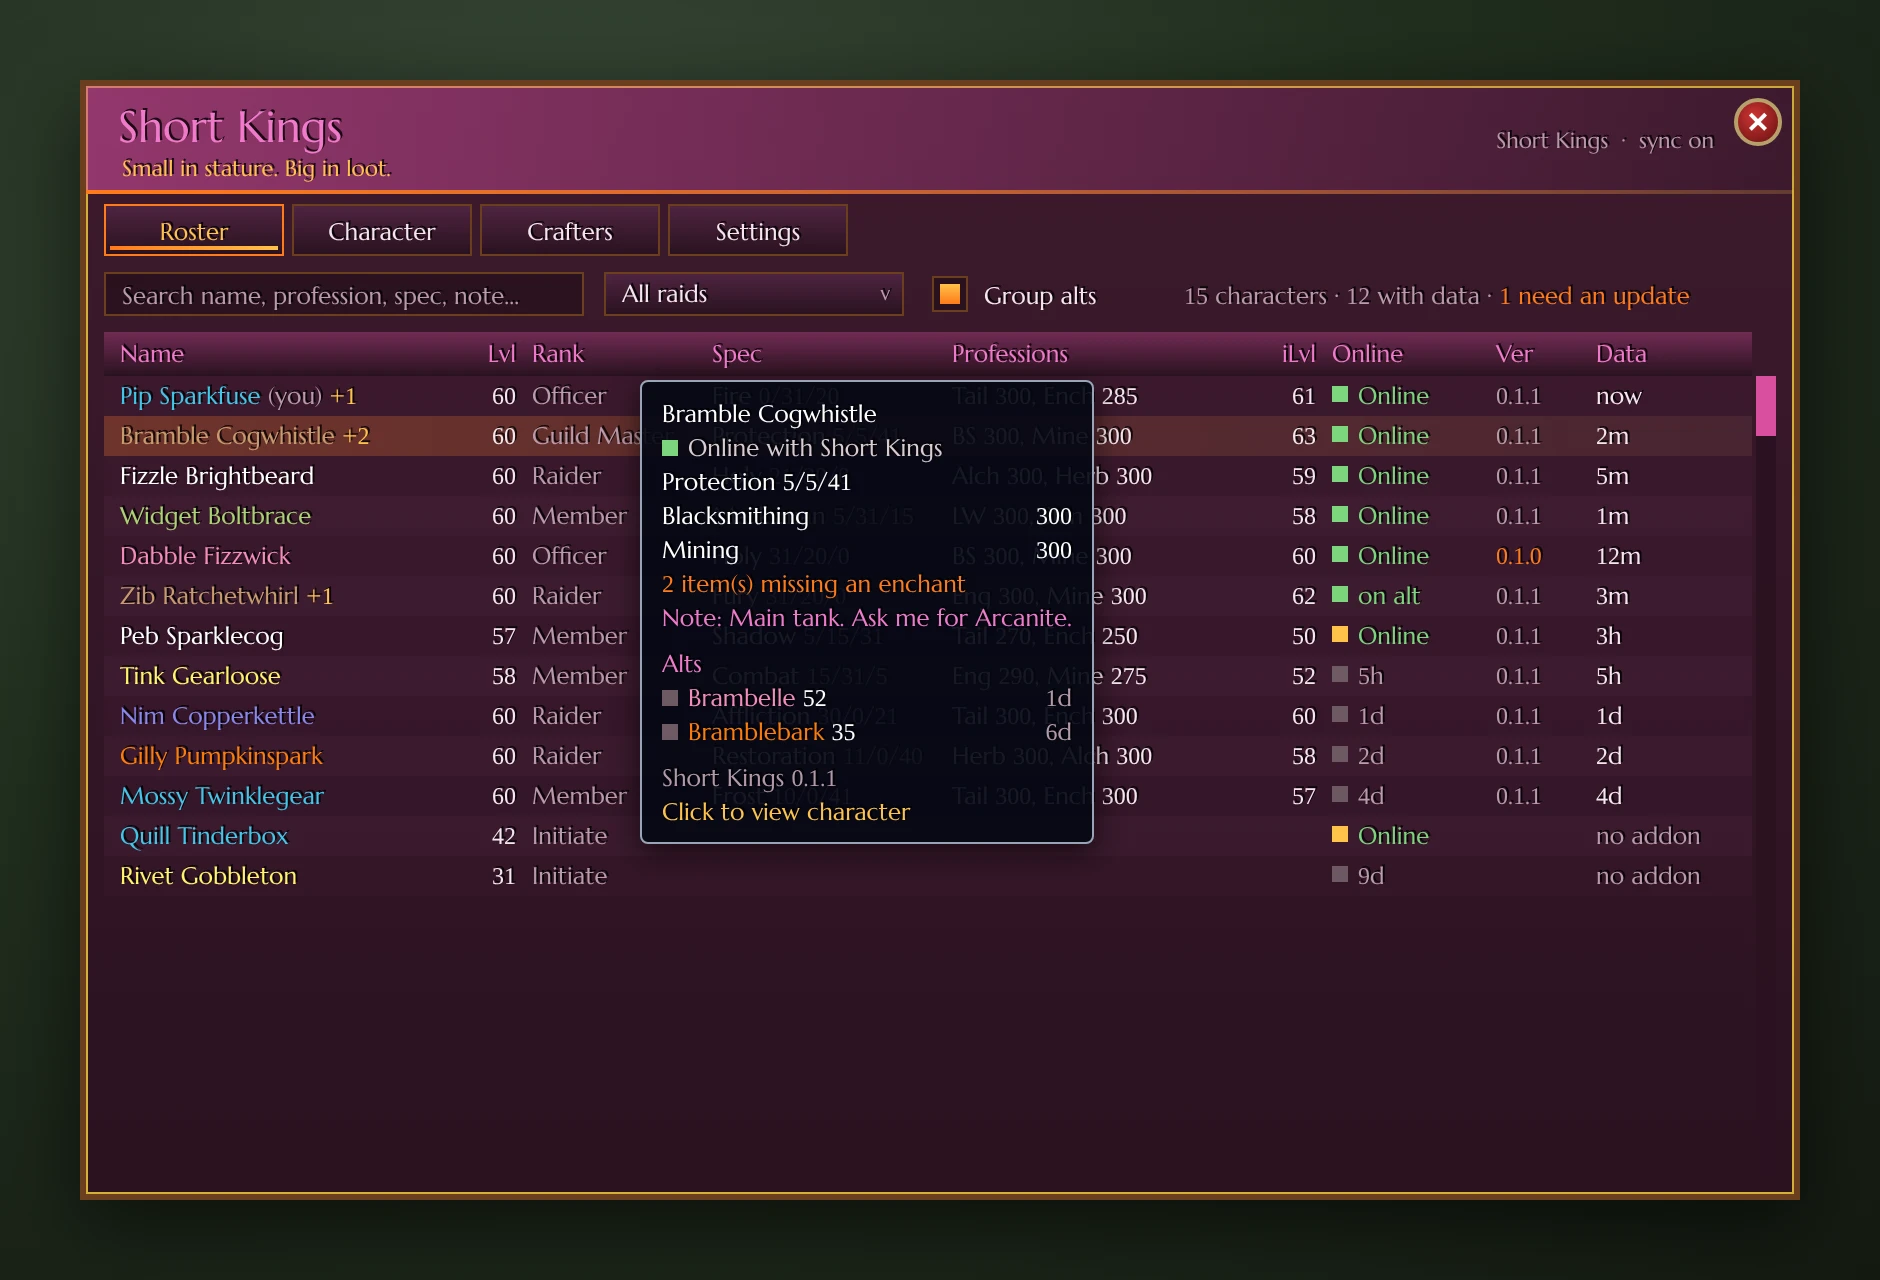
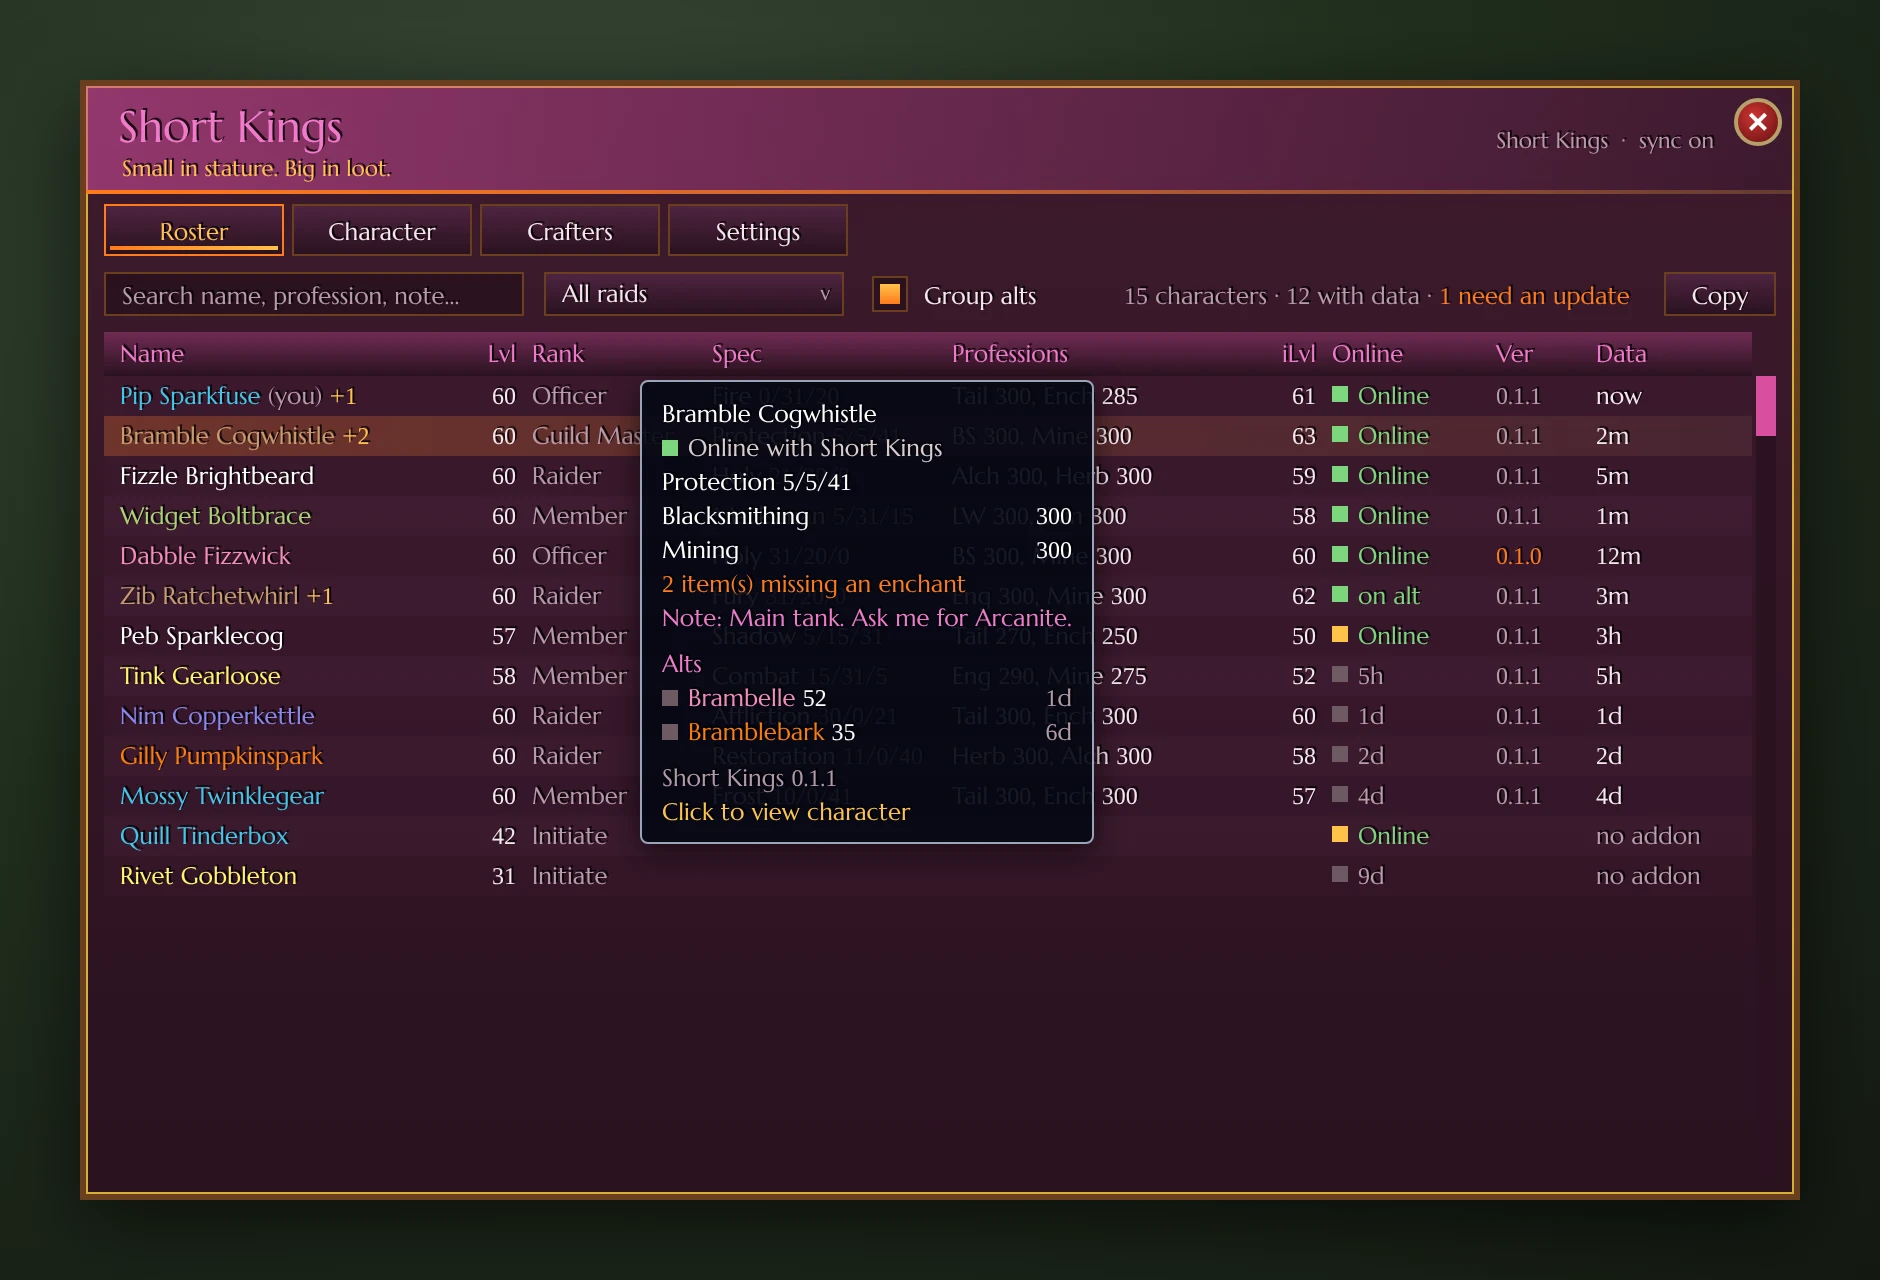
v0.2.1: Copy as text, update-available line, mockups and docs (P9, P5)
- Core/Export: plain-text roster and crafter lists (no colour codes, links
  or notes; own gear/talents omitted when not shared)
- Copy buttons on the Roster (normal and raid view) and the Crafters panel,
  using the debug window as a copy box (DebugWindow:ShowText)
- Roster counter: 'Short Kings X is out (you have Y)', cut at the Copy button
- Mockups: Copy buttons, raid sizes, amulet warning, Settings sharing preview
  and the tooltip setting; re-rendered
- README (badge 0.2.1, roadmap), CHANGELOG, TESTING, PLAN, CLAUDE.md status

Claude-Session: https://claude.ai/code/session_01A7mubHGGZbn7Aen3d76ig4

Changed region(s): [[0.617, 0.2188, 0.9255, 0.25], [0.216, 0.1875, 0.3702, 0.25], [0.4628, 0.1875, 0.5862, 0.25]]

diff --git a/docs/mockups/ui-mockup.html b/docs/mockups/ui-mockup.html
@@ -175,10 +175,11 @@ body { margin:0; padding:40px; background:#14161b; font-family:"SKFriz","Friz Qu
       <div class="status">Short Kings &nbsp;·&nbsp; sync on</div><div class="close">✕</div></div>
     <div class="tabs"><div class="btn active">Roster</div><div class="btn">Character</div><div class="btn">Crafters</div><div class="btn">Settings</div></div>
     <div class="content">
-      <div class="search" style="width:240px">Search name, profession, spec, note...</div>
-      <div class="menu" style="left:250px;top:0;width:150px">All raids</div>
-      <div class="check" style="left:414px;top:2px"><div class="box on"></div>Group alts</div>
-      <div class="count" style="left:540px">15 characters · 12 with data · <span class="e">1 need an update</span></div>
+      <div class="search" style="width:210px">Search name, profession, note...</div>
+      <div class="menu" style="left:220px;top:0;width:150px">All raids</div>
+      <div class="check" style="left:384px;top:2px"><div class="box on"></div>Group alts</div>
+      <div class="count" style="left:510px">15 characters · 12 with data · <span class="e">1 need an update</span></div>
+      <div class="btn small" style="position:absolute;right:0;top:0;width:56px">Copy</div>
       <div class="list">
         <div class="header" id="rhead"></div>
         <div class="rows" id="rrows"></div>
@@ -246,25 +247,33 @@ body { margin:0; padding:40px; background:#14161b; font-family:"SKFriz","Friz Qu
       <div class="check" style="top:30px"><div class="box on"></div>Share and receive guild data (sync)</div>
       <div class="check" style="top:58px"><div class="box on"></div>Share my gear and talents</div>
       <div class="check" style="top:86px"><div class="box on"></div>Share my recipes and cooldowns</div>
-      <div class="check" style="top:114px"><div class="box on"></div>Show minimap button</div>
-      <div class="check" style="top:142px"><div class="box"></div>Debug logging in chat</div>
-      <div class="rowbtns" style="top:170px"><span style="font-size:12px;margin-right:4px">Window size</span>
+      <div class="check" style="top:114px"><div class="box on"></div>Show guild crafters in item tooltips</div>
+      <div class="check" style="top:142px"><div class="box on"></div>Show minimap button</div>
+      <div class="check" style="top:170px"><div class="box"></div>Debug logging in chat</div>
+      <div class="rowbtns" style="top:198px"><span style="font-size:12px;margin-right:4px">Window size</span>
         <div class="btn" style="width:54px;min-width:54px;padding:0">70%</div><div class="btn" style="width:54px;min-width:54px;padding:0">80%</div>
         <div class="btn" style="width:54px;min-width:54px;padding:0">90%</div><div class="btn active" style="width:54px;min-width:54px;padding:0">100%</div>
         <div class="btn" style="width:54px;min-width:54px;padding:0">110%</div><div class="btn" style="width:54px;min-width:54px;padding:0">120%</div>
         <div class="btn" style="width:54px;min-width:54px;padding:0">130%</div></div>
-      <div class="rowbtns" style="top:210px">
+      <div class="rowbtns" style="top:238px">
         <div class="btn small" style="width:170px;height:24px">Rescan my character</div>
         <div class="btn small hover" style="width:170px;height:24px">Sync now</div>
         <div class="btn small" style="width:170px;height:24px">Reset window position</div>
         <div class="btn small" style="width:170px;height:24px">Debug report</div></div>
-      <div class="panel" style="top:254px"><span class="p">Status</span>
-  Version 0.1.1   ·   Guild: Short Kings
-  Sync: <span class="g">running</span>
-  Sending: allowed
+      <div class="panel" style="top:282px;bottom:0;overflow:hidden"><span class="p">Status</span>
+  Version 0.2.1   ·   Guild: Short Kings
+  Sync: <span class="g">running</span>   ·   Sending: allowed
   Messages: 48 sent, 131 received, 11 accepted, 0 rejected, 0 queued
   Your data updated 4m ago
-  <span class="f">Open these profession windows once: Enchanting</span></div>
+
+<span class="p">What guildmates see from you</span>
+  <span class="g">shared</span>   Name, class, race, level and addon version
+  <span class="m">private</span>  Gear and item level
+  <span class="m">private</span>  Talents
+  <span class="g">shared</span>   Profession skill levels
+  <span class="g">shared</span>   Recipes
+  <span class="g">shared</span>   Profession cooldowns</div>
+      <div class="scroll" style="top:282px;right:2px"><div class="thumb" style="height:70px"></div></div>
     </div>
   </div>
 </div>
@@ -277,9 +286,10 @@ body { margin:0; padding:40px; background:#14161b; font-family:"SKFriz","Friz Qu
       <div class="status">Short Kings &nbsp;·&nbsp; sync on</div><div class="close">✕</div></div>
     <div class="tabs"><div class="btn active">Roster</div><div class="btn">Character</div><div class="btn">Crafters</div><div class="btn">Settings</div></div>
     <div class="content">
-      <div class="search" style="width:240px">Search name, profession, spec, note...</div>
-      <div class="menu hover" style="left:250px;top:0;width:150px">Onyxia's Lair</div>
-      <div class="count" style="left:414px">14 characters</div>
+      <div class="search" style="width:210px">Search name, profession, note...</div>
+      <div class="menu hover" style="left:220px;top:0;width:150px">Onyxia's Lair (40)</div>
+      <div class="count" style="left:384px">14 characters</div>
+      <div class="btn small" style="position:absolute;right:0;top:0;width:56px">Copy</div>
       <div style="position:absolute;left:0;top:28px;display:flex;gap:4px">
         <div class="btn small active" style="min-width:90px">All</div><div class="btn small" style="min-width:90px">Attuned</div>
         <div class="btn small" style="min-width:90px">Not attuned</div><div class="btn small" style="min-width:90px">Unknown</div></div>
@@ -322,6 +332,7 @@ body { margin:0; padding:40px; background:#14161b; font-family:"SKFriz","Friz Qu
           <div class="rows" id="krows"></div>
         </div>
         <div class="btn small hover" style="position:absolute;left:8px;bottom:8px;width:150px;height:24px">Post to guild chat</div>
+        <div class="btn small" style="position:absolute;left:166px;bottom:8px;width:56px;height:24px">Copy</div>
       </div>
     </div>
   </div>
@@ -429,7 +440,7 @@ document.getElementById("details").innerHTML =
 // Roster with a raid picked: every character on its own row.
 const acols = [["Name",170],["Lvl",36,"r"],["Rank",90],["Spec",120],["Attuned",100],["iLvl",40,"r"],["Online",82],["Data",70]];
 document.getElementById("ahead").innerHTML = acols.map(c => `<div class="${c[2]||""}" style="width:${c[1]}px">${c[0]}</div>`).join("");
-const MARK = { y:'<span class="mark y">✓</span><span class="g">yes</span>', n:'<span class="mark n">✗</span><span class="bd">no</span>',
+const MARK = { "y!":'<span class="mark y">✓</span><span class="g">yes</span> <span class="e">!</span>', y:'<span class="mark y">✓</span><span class="g">yes</span>', n:'<span class="mark n">✗</span><span class="bd">no</span>',
   u:'<span class="mark u">?</span><span class="m">unknown</span>' };
 const arows = [
   ["Bramble Cogwhistle","WARRIOR","Guild Master","Protection","5/5/41","y",63,"addon","2m"],
@@ -438,7 +449,7 @@ const arows = [
   ["Widget Boltbrace","HUNTER","Member","Marksman","5/31/15","n",58,"addon","1m"],
   ["Zib Ratchetwhirl","WARRIOR","Raider","Fury","31/20/0","y",62,"addon","3m"],
   ["Brambelle","PALADIN","Alt","Holy","31/20/0","y",54,"off:1d","1d"],
-  ["Dabble Fizzwick","PALADIN","Officer","Holy","31/20/0","y",60,"off:3h","3h"],
+  ["Dabble Fizzwick","PALADIN","Officer","Holy","31/20/0","y!",60,"off:3h","3h"],
   ["Nim Copperkettle","WARLOCK","Raider","Affliction","30/0/21","n",60,"off:1d","1d"],
   ["Gilly Pumpkinspark","DRUID","Raider","Restoration","11/0/40","y",58,"off:2d","2d"],
   ["Mossy Twinklegear","MAGE","Member","Frost","10/0/41","y",57,"off:4d","4d"],

diff --git a/README.md b/README.md
@@ -5,7 +5,7 @@
 <p align="center">
   <a href="https://github.com/EllisKOsborn/forever-shortkings/actions/workflows/ci.yml"><img alt="Tests" src="https://github.com/EllisKOsborn/forever-shortkings/actions/workflows/ci.yml/badge.svg?branch=main"></a>
   <img alt="WoW Forever 1.60.1" src="https://img.shields.io/badge/WoW%20Forever-1.60.1%20%C2%B7%2016001-D94FA0?labelColor=2A1220">
-  <img alt="Version" src="https://img.shields.io/badge/version-0.2.0%20alpha-FF7A1A?labelColor=2A1220">
+  <img alt="Version" src="https://img.shields.io/badge/version-0.2.1%20alpha-FF7A1A?labelColor=2A1220">
   <img alt="Licence MIT" src="https://img.shields.io/badge/licence-MIT-FFC24A?labelColor=2A1220">
 </p>
 
@@ -24,7 +24,7 @@
 </p>
 
 > [!NOTE]
-> **v0.2.0 is an alpha that hasn't been run in game yet.** It's built against
+> **v0.2.1 is an alpha that hasn't been run in game yet.** It's built against
 > Blizzard's own Forever 1.60.1 interface code and tested with a simulated WoW
 > client. The pictures below are **mockups** drawn from the addon's real
 > colours and layout. Item icons are placeholders; in game you see the real ones.
@@ -60,7 +60,8 @@
 - **Group alts** (on by default) folds each player's characters into one row, under the character they chose as their main.
 - **Sort** by clicking any column. Online members come first.
 - **Search** by name, profession, spec, class, rank, a word from their note, or an alt's name.
-- **Counter** at the top: characters, how many have data, and how many need an addon update.
+- **Counter** at the top: characters, how many have data, how many need an addon update, and whether a newer Short Kings is out.
+- **Copy** (top right) gives the list exactly as shown, as plain text to paste into Discord. Notes are never included.
 - **Raid picker** (*All raids*, Barrow Deeps (10), Hyjal Summit (20), Onyxia's Lair (40), the raids in Forever's first wave). Pick a raid to see who's attuned:
   - Barrow Deeps and Hyjal Summit need no attunement, so they just say so;
   - for Onyxia, an **Attuned** column: green tick *yes* (quest done, or the Drakefire Amulet in their bags), red cross *no*, grey *unknown* (no Short Kings data or gear hidden); an orange **!** means the quest is done but the amulet isn't in their bags (you need it in your bags to enter);
@@ -123,6 +124,7 @@
   - a **Whisper** button (greyed out when nobody on that player's characters is online);
   - hover a crafter to see when their recipes were recorded; click to open their character.
 - **Post to guild chat** types "[Item] can be made by: A, B, C" into your chat box. You press Enter to send it.
+- **Copy** gives the crafter list as plain text for Discord.
 - Recipes come from what each crafter recorded when they last opened their profession window. If nobody has yet, the tab says so. People who hide their recipes aren't listed.
 - Item names load from the game a little at a time, so the first search can take a few seconds to fill in.
 
@@ -339,9 +341,12 @@ The full design, data format and merge rules are in [PLAN.md](PLAN.md).
 - [x] **v0.1.1**: online/addon status dots, alts under mains, notes, version column, missing-enchant markers, accurate cooldowns, privacy toggles
 - [x] **v0.1.2**: raid attunement filter on the Roster, "Ask for latest", faster updates (30–60 s)
 - [x] **v0.2.0**: **Crafters** tab (search an item, see who can make it, Whisper, post to guild chat) and "Crafted by" on item tooltips
-- [ ] **v0.2.x**: **Professions** tab (coverage, cooldown board, specialisations, reagents, recipes nobody has)
-- [ ] **v0.3**: **Raids**, built on Blizzard's guild calendar: sign-up status, roles, line-up with attunement check, reminders, invite-all
-- [ ] **v0.4**: theme polish (ember sparks on the title bar), attunement and faction tables confirmed for Forever
+- [x] **v0.2.1**: launch readiness: Forever's real raid attunements (Onyxia amulet check), `/sk debug` live-client checks and error capture, sync safety limits, sharing preview, "may be out of date" labels, Copy as text
+- [ ] **In-game test round** after launch (4 Nov), then fixes (v0.2.2)
+- [ ] **v0.2.3**: **Overview** tab: guild population, data health, profession coverage, attunement summary, levelling feed
+- [ ] **v0.3**: **Raids**, built on Blizzard's guild calendar: sign-up status, roles, line-up with attunement and readiness, reminders, invite-all (before raids open on 9 Dec)
+- [ ] **v0.4**: **Professions** tab (cooldown board, specialisations, reagents, favourites)
+- [ ] **v0.5**: craft requests, a short status line, lockout board
 - [ ] **Later**: craft requests, export to text, raid attendance, shopping lists, guild bank viewer, and more in the [plan](PLAN.md#later-in-rough-priority-order)
 - [ ] CurseForge release
 

diff --git a/CLAUDE.md b/CLAUDE.md
@@ -92,7 +92,8 @@ shared only over the guild **addon channel**: no website, no server, no uploads.
 ShortKings.toc  embeds.xml  Commands.lua (/sk, /sk debug report)
 Core/     Init (events, timers, modules), Log, Compat, DB (SavedVariables,
           pruning), Identity (roster, sender→GUID, Status dots), Alts
-          (mutual-link groups), CraftIndex (recipe/item → crafters, async names)
+          (mutual-link groups), CraftIndex (recipe/item → crafters, async names), Export
+          (plain text for Copy), Log (+ error capture: SK:Safe/RecordError)
 Data/     Professions, Attunements (quest IDs), Factions, Enchants
 Collect/  Character, Talents, Professions (recipe scan), Reputation,
           Attunements, Profile (full/public copies, cooldowns, main)
@@ -141,16 +142,17 @@ oversized outgoing messages are recorded as errors, not sent.
   Marcellus from fonts.gstatic.com (don't commit the font).
 
 ## Status (2 Nov 2026)
-- v0.1, v0.1.1, v0.1.2 and v0.2.0 are code complete, **not tested in game**.
-  See CHANGELOG.md. (`docs/prompts/next-v0.1.2-v0.2.md` is done.)
+- v0.1 to v0.2.1 are code complete, **not tested in game**. See CHANGELOG.md.
+  (`docs/prompts/next-v0.1.2-v0.2.md` is done; v0.2.1 = launch readiness
+  from `docs/PLAN-REVIEW.md`.)
 - Roadmap and future plans: `PLAN.md` section 7. Background and reasoning:
   `docs/FEATURE-REVIEW.md`.
 - Outside proposals (`docs/GPT-PLAN.md`, `docs/MANUS-PLAN.md`,
   `docs/PERPLEXITY-PLAN.md`) were reviewed on 2 Nov: verdicts in
   `docs/PLAN-REVIEW.md`, agreed order in **PLAN.md section 7** (the single
   roadmap). Don't build from the proposal files directly.
-- **Next:** v0.2.1 launch readiness (PLAN.md section 7), then the in-game
-  test gate (TESTING.md), v0.2.3 Overview, and **v0.3 Raids** before 9 Dec
+- **Next:** the in-game test gate (TESTING.md, `/sk debug` "Live-client
+  checks"), v0.2.2 fixes only, v0.2.3 Overview, and **v0.3 Raids** before 9 Dec
   (`docs/prompts/next-v0.3-raids.md`). Professions tab is v0.4.
 - Calendar facts (1.60.1 docs): invites carry `guid`; no role field; only
   `AddEvent` is `HasRestrictions`; `GetDayEvent`/`EventGetInvite` are secret

diff --git a/CHANGELOG.md b/CHANGELOG.md
@@ -26,6 +26,14 @@ Launch readiness, after reviewing the GPT, Manus and Perplexity plans
 - **Old data is labelled:** data more than a week old shows in orange in the
   Roster's Data column, with "may be out of date" in the tooltip and on the
   Character tab. Crafters tooltips say when a crafter's recipes were recorded.
+- **Copy as text** (for Discord): a **Copy** button on the Roster (the list
+  as shown, including the raid view) and on the Crafters side panel. Plain
+  text, no colour codes; notes are never included, and your own gear and
+  talents are left out if you don't share them.
+- The Roster counter says when a newer Short Kings is out ("Short Kings 0.2.2
+  is out (you have 0.2.1)").
+- Mockups updated (Copy buttons, raid sizes, Settings preview and the
+  tooltip setting that was missing from the v0.2.0 picture).
 
 ## v0.2.0 (unreleased, not yet tested in game)
 

diff --git a/TESTING.md b/TESTING.md
@@ -160,6 +160,11 @@ the `/sk debug` text when something looks wrong.
 57. [ ] A guildmate whose data is more than a week old shows an orange age in
         the Roster's Data column and "may be out of date" on their Character tab.
 
+58. [ ] Roster → **Copy**: a window opens with the list as plain text,
+        already selected. Ctrl+C (Cmd+C), paste into Discord: no colour codes,
+        no notes. Try it with a raid picked too.
+59. [ ] Crafters → pick a result → **Copy**: the crafter list as plain text.
+
 ## Known gaps in v0.1
 
 - No Professions or Raids tabs yet (rest of v0.2, and v0.3).

diff --git a/PLAN.md b/PLAN.md
@@ -282,7 +282,7 @@ which explains where each idea came from.
 How each proposal was judged: [docs/PLAN-REVIEW.md](docs/PLAN-REVIEW.md). This
 section is the single source of truth for order and status.
 
-- **v0.2.1 launch readiness** (now, before 4 Nov). No new message types:
+- **v0.2.1 launch readiness** — ✅ code complete 2 Nov. No new message types:
   - attunement fix: Barrow Deeps and Hyjal need none; Onyxia quest **and**
     Drakefire Amulet in bags; MC/BWL/Naxx hidden from the picker
   - `/sk debug`: last errors, calendar probes, GUID stability, unlearned recipes
